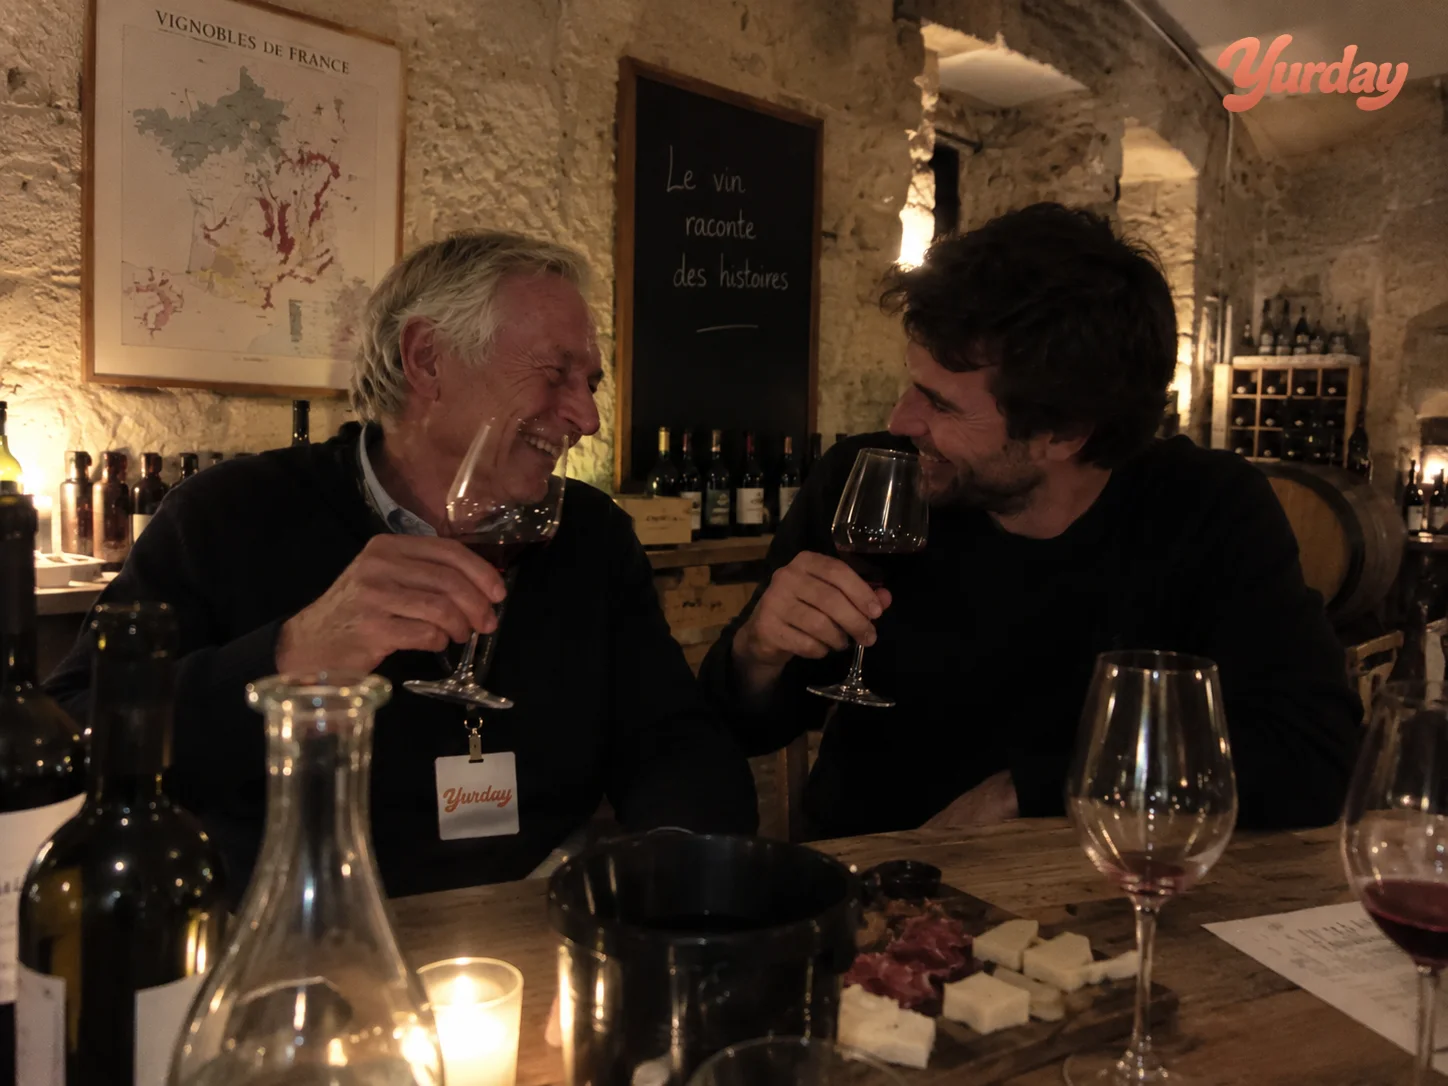
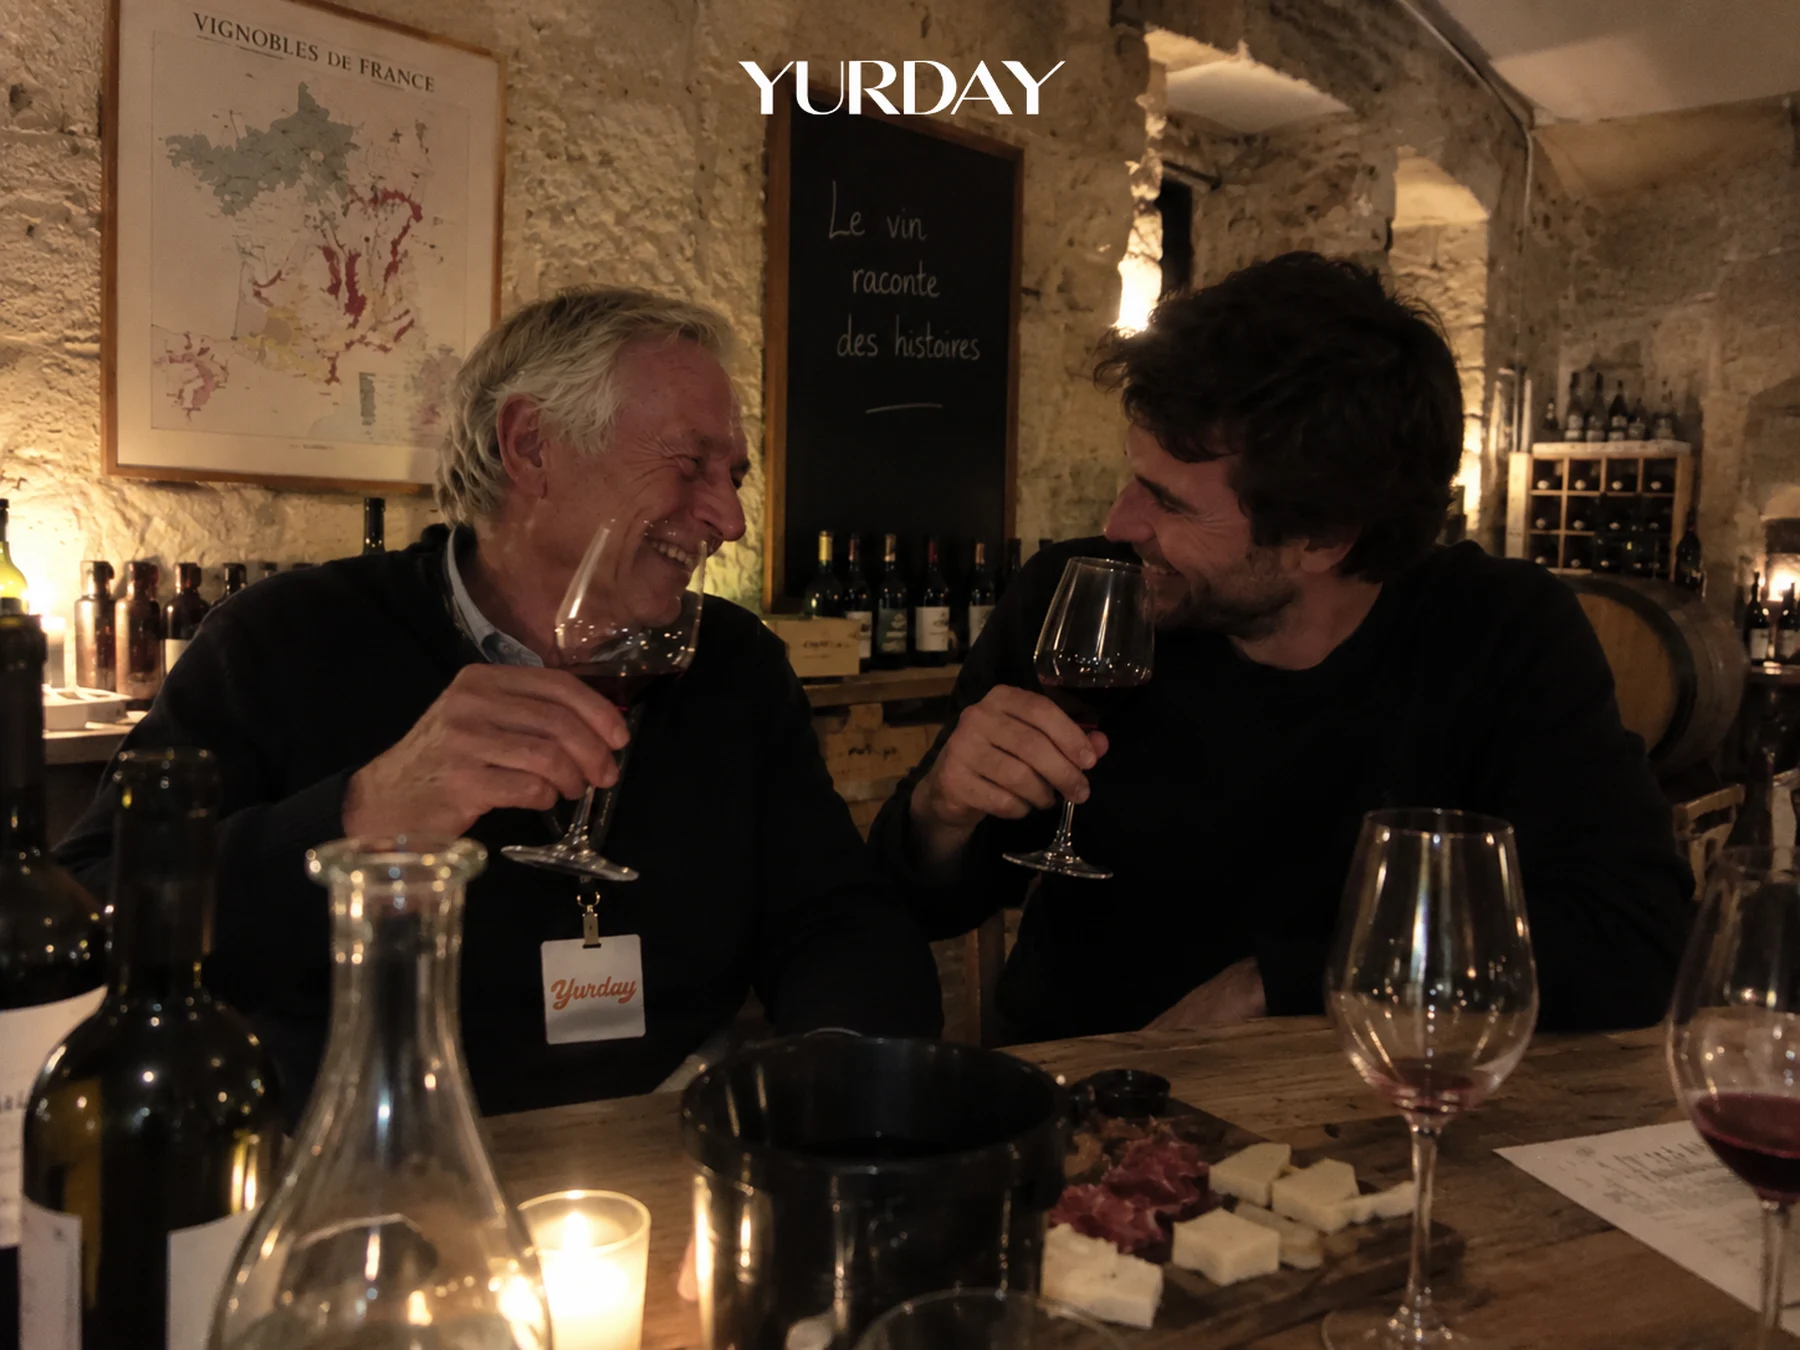
Replace vraies histoires with 5 new stories, remove hero underline
New photos and chic first names for all 5 story chapters across every
locale; remove the now-unused Marker underline component and its CSS.

Changed region(s): [[0.404, 0.0304, 0.5905, 0.0912], [0.8391, 0.0304, 0.9945, 0.1215]]

diff --git a/src/styles/base.css b/src/styles/base.css
@@ -3,7 +3,6 @@
 /* ---------- Support arabe (RTL) ---------- */
 html[dir="rtl"] body { font-family: var(--font-cairo), var(--font-inter), -apple-system, sans-serif; }
 html[dir="rtl"] h1, html[dir="rtl"] h2, html[dir="rtl"] h3 { font-family: var(--font-cairo), var(--font-display), serif; }
-html[dir="rtl"] .marker svg { left: auto; right: -2%; }
 html[dir="rtl"] .nav { flex-direction: row-reverse; }
 html[dir="rtl"] .nav-links { flex-direction: row-reverse; }
 html[dir="rtl"] .footer-legal { direction: rtl; }
@@ -71,30 +70,6 @@ h1, h2, h3 {
   color: var(--ink);
 }
 .btn-ghost:hover { border-color: var(--blue-2); color: var(--blue-3); transform: translateY(-1px); }
-
-/* Marker underline signature */
-.marker {
-  position: relative;
-  white-space: nowrap;
-}
-.marker svg {
-  position: absolute;
-  left: -2%;
-  bottom: -0.14em;
-  width: 104%;
-  height: 0.32em;
-  z-index: -1;
-}
-.marker svg path {
-  stroke-dasharray: 340;
-  stroke-dashoffset: 340;
-}
-.marker.in-view svg path {
-  animation: draw-marker 0.9s cubic-bezier(0.65, 0, 0.35, 1) forwards;
-}
-@keyframes draw-marker {
-  to { stroke-dashoffset: 0; }
-}
 
 /* Alternance des fonds de section. */
 .section-paper-deep { background: var(--paper-deep); }

diff --git a/src/data/moments.ts b/src/data/moments.ts
@@ -11,9 +11,9 @@ export type Moment = {
  * arriver avec sa propre photo inédite.
  */
 export const moments: Moment[] = [
-  { id: 'star-dior', image: '/images/moment-star-dior.webp' },
-  { id: 'croisiere-seine', image: '/images/moment-croisiere-seine.webp' },
-  { id: 'gt3rs-circuit', image: '/images/moment-gt3rs-circuit.webp' },
+  { id: 'montgolfiere-demande', image: '/images/moment-montgolfiere-demande.webp' },
   { id: 'degustation-vin', image: '/images/moment-degustation-vin.webp' },
-  { id: 'roses-cartier', image: '/images/moment-roses-cartier.webp' },
+  { id: 'croisiere-seine', image: '/images/moment-croisiere-seine.webp' },
+  { id: 'opera-chauffeur', image: '/images/moment-opera-chauffeur.webp' },
+  { id: 'caleche-anniversaire', image: '/images/moment-caleche-anniversaire.webp' },
 ]

diff --git a/src/components/home/Hero.tsx b/src/components/home/Hero.tsx
@@ -1,6 +1,5 @@
 import Link from 'next/link'
 import { HeroSection } from '@/components/ui/HeroSection'
-import { Marker } from '@/components/ui/Marker'
 import type { Messages } from '@/i18n/messages'
 import { TrustBar } from './TrustBar'
 
@@ -22,7 +21,7 @@ export function Hero({ messages, home }: HeroProps) {
         {hero.title.tail}
         <br />
         {hero.title.line2}
-        <Marker>{hero.title.highlight}</Marker>
+        {hero.title.highlight}
       </h1>
       <div className="hero-actions">
         <Link href={`${home}#contact`} className="btn btn-primary">
